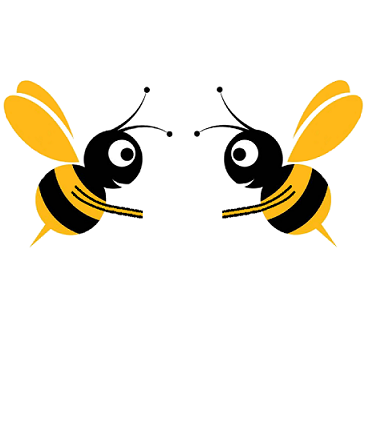
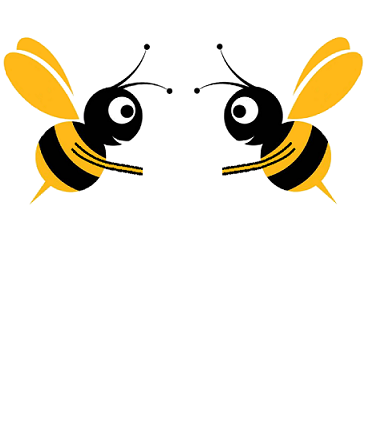
background

diff --git a/public/assets/css/style.css b/public/assets/css/style.css
@@ -29,6 +29,7 @@ p {
 
 #cheersBeers {
     margin-top: 95px;
+    position: relative;
 }
 
 .toggle-mute {
@@ -44,8 +45,9 @@ p {
 /* Bootstrap */
 .container-fluid {
     background-image:url("../images/cheers.png");
+    background-repeat: no-repeat;
+    background-size: 100%;
     height: 500px;
-    /* position: relative; */
     display: flex;
     align-items: center;
     justify-content: center;
